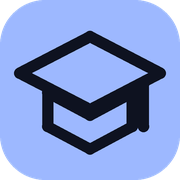
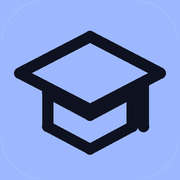
Add files via upload

diff --git a/script.js b/script.js
@@ -259,13 +259,16 @@
   function toast(message, type = 'ok', action = null) {
     const el = $('#toast'), isErr = type === 'error';
     el.setAttribute('role', isErr ? 'alert' : 'status'); el.setAttribute('aria-live', isErr ? 'assertive' : 'polite'); // los errores se anuncian de inmediato
-    el.textContent = message;
     undoRun = action ? action.run : null;
-    if (action) {
-      const b = document.createElement('button'); b.type = 'button'; b.className = 'toast-action'; b.textContent = action.label; b.setAttribute('aria-keyshortcuts', 'z'); b.title = 'Atajo: Z';
-      b.onclick = action.run; el.append(' ', b);
-    }
-    el.className = `toast show ${type}`;
+    el.className = `toast show ${type}`; // primero se hace visible y luego se escribe el texto: los lectores de pantalla solo anuncian cambios en regiones visibles
+    clearTimeout(toast.fillId);
+    toast.fillId = setTimeout(() => {
+      el.textContent = message;
+      if (action) {
+        const b = document.createElement('button'); b.type = 'button'; b.className = 'toast-action'; b.textContent = action.label; b.setAttribute('aria-keyshortcuts', 'z'); b.title = 'Atajo: Z';
+        b.onclick = action.run; el.append(' ', b);
+      }
+    }, 40);
     clearTimeout(toast.id);
     toast.id = setTimeout(() => { el.classList.remove('show'); undoRun = null; }, action ? 8000 : 4200);
   }
@@ -1793,7 +1796,7 @@ ${text}`;
       </details>
       <details class="more-inline settings-group"><summary>Tipografía y lectura</summary>
         <p class="hint">Solo fuentes del sistema: no se descarga nada.</p>
-        ${sel('font', 'Fuente del texto', [['sans', 'Sistema (sans)'], ['humanist', 'Humanista'], ['serif', 'Serif de lectura'], ['rounded', 'Redondeada'], ['mono', 'Monoespaciada'], ['dyslexic', 'Lectura fácil (OpenDyslexic)']])}
+        ${sel('font', 'Fuente del texto', [['sans', 'Sistema (sans)'], ['humanist', 'Humanista'], ['serif', 'Serif de lectura'], ['rounded', 'Redondeada'], ['mono', 'Monoespaciada'], ['dyslexic', 'Lectura fácil (OpenDyslexic si está instalada; si no, Verdana)']])}
         ${sel('headFont', 'Fuente de los títulos', [['serif', 'Serif (actual)'], ['same', 'La misma del texto']])}
         <label>Tamaño de texto: <output id="fs-out"></output><input name="fontSize" type="range" min="13" max="24" step="1"></label>
         <div class="form-row">${sel('lineHeight', 'Interlineado', [['compact', 'Compacto'], ['normal', 'Normal'], ['roomy', 'Amplio']])}${sel('letterSpacing', 'Espaciado de letras', [['normal', 'Normal'], ['wide', 'Amplio'], ['wider', 'Muy amplio']])}</div>
@@ -1863,7 +1866,7 @@ ${text}`;
     $('#reset-data').onclick = async () => {
       if (!(await confirmDialog({ title: 'Borrar todo', message: 'Se borrarán tarjetas, sesiones y fechas.\nAntes se descargará una copia y se guardará otra en el navegador.', ok: 'Borrar todo', danger: true }))) return;
       exportData(true); snapshot('reset');
-      try { localStorage.removeItem(KEY); LEGACY_KEYS.forEach((k) => localStorage.removeItem(k)); ['learny.corrupt', TIMER_KEY, DONE_KEY].forEach((k) => localStorage.removeItem(k)); } catch { /* ignorar */ }
+      try { localStorage.removeItem(KEY); LEGACY_KEYS.forEach((k) => localStorage.removeItem(k)); ['learny.corrupt', 'learny.drafts', TIMER_KEY, DONE_KEY].forEach((k) => localStorage.removeItem(k)); } catch { /* ignorar */ }
       exam = null; hydrate({}); closeModal(); applyPreferences(); resetTimer('focus'); renderAll(); toast('Datos borrados. Descargaste una copia y puedes restaurar la automática desde Ajustes ⚙.');
     };
   }
@@ -2040,6 +2043,11 @@ ${text}`;
 
   const syncOnline = () => { const el = $('#offline-note'); if (el) el.hidden = navigator.onLine; };
   window.addEventListener('online', syncOnline); window.addEventListener('offline', syncOnline); syncOnline();
+  /* Si la app sigue abierta al pasar la medianoche, «hoy» se recalcula (cola, tarjetas vencidas, plan). */
+  let lastDay = today();
+  const checkNewDay = () => { if (today() !== lastDay) { lastDay = today(); renderAll(); } };
+  setInterval(checkNewDay, 60000);
+  document.addEventListener('visibilitychange', () => { if (!document.hidden) checkNewDay(); });
 
   window.Learny = { reveal, pullFromStorage, validDeadlineDate, MAX_PLAN_DAYS, isExam: () => !!exam, endExam: () => { if (exam && exam.i) state.exams.push({ date: today(), score: exam.score, total: exam.i }); exam = null; save(); renderAll(); document.dispatchEvent(new Event('learny:examend')); }, state, save, toast, modal, closeModal, today, addDays, uid, clean, esc, fmt, plural, daysUntil, dueCards, startExam, cardForm, normalizeCard, suggestCards: suggestCardsFromText, reviewCards, askGemini, gemini, rebuildTasks, addDeadline, renderAll, hasAi, cancelAi, showPage, subjectStats, overdueCards, weakSubject, startSubjectQuiz, calcStreak, announce, debounce, currentPage: () => currentPage, timerStarted: () => timer.started, timerRunning: () => timer.running };
   const savedTimer = (() => { try { return localStorage.getItem(TIMER_KEY); } catch { return null; } })();

diff --git a/sw.js b/sw.js
@@ -1,11 +1,12 @@
-const CACHE = 'learny-v17';
+const CACHE = 'learny-v18';
 // Imprescindibles: si falta uno, la instalación falla. Los iconos son opcionales y no bloquean el modo sin conexión.
 const CORE = ['./', './index.html', './style.css', './script.js', './extras.js', './manifest.json'];
 const OPTIONAL = ['./icon.svg', './icon-192.png', './icon-512.png', './icon-maskable-512.png', './apple-touch-icon.png'];
 const NETWORK_TIMEOUT = 4000;
+const ASSET_TIMEOUT = 10000;
 
 self.addEventListener('install', (event) => {
-  event.waitUntil(caches.open(CACHE).then(async (cache) => { await cache.addAll(CORE); await Promise.allSettled(OPTIONAL.map((u) => cache.add(u))); }).then(() => self.skipWaiting()));
+  event.waitUntil(caches.open(CACHE).then(async (cache) => { await cache.addAll(CORE.map((u) => new Request(u, { cache: 'reload' }))); await Promise.allSettled(OPTIONAL.map((u) => cache.add(new Request(u, { cache: 'reload' })))); }).then(() => self.skipWaiting()));
 });
 
 self.addEventListener('activate', (event) => {
@@ -22,9 +23,11 @@ self.addEventListener('fetch', (event) => {
   const url = new URL(request.url);
   if (url.origin !== self.location.origin) return;
 
+  // Navegación: 4 s. Archivos sueltos: 10 s (la red ya respondió al index; así no se mezcla un index nuevo con un script viejo).
+  // cache: 'no-cache' revalida contra el servidor y se salta la caché HTTP de GitHub Pages (~10 min).
   const fromNetwork = new Promise((resolve, reject) => {
-    const timer = setTimeout(() => reject(new Error('timeout')), NETWORK_TIMEOUT);
-    fetch(request).then((res) => { clearTimeout(timer); resolve(res); }, (err) => { clearTimeout(timer); reject(err); });
+    const timer = setTimeout(() => reject(new Error('timeout')), request.mode === 'navigate' ? NETWORK_TIMEOUT : ASSET_TIMEOUT);
+    fetch(request, { cache: 'no-cache' }).then((res) => { clearTimeout(timer); resolve(res); }, (err) => { clearTimeout(timer); reject(err); });
   }).then((res) => {
     if (res && res.ok && res.type === 'basic') {
       const copy = res.clone();
@@ -41,4 +44,13 @@ self.addEventListener('fetch', (event) => {
       return Response.error();
     })
   );
+});
+
+// Al pulsar un aviso: enfoca Learny si ya está abierta; si no, la abre.
+self.addEventListener('notificationclick', (event) => {
+  event.notification.close();
+  event.waitUntil(self.clients.matchAll({ type: 'window', includeUncontrolled: true }).then((list) => {
+    const mine = list.find((c) => c.url.startsWith(self.registration.scope));
+    return mine ? mine.focus() : self.clients.openWindow('./index.html');
+  }));
 });

diff --git a/extras.js b/extras.js
@@ -207,12 +207,22 @@
 
 
   /* ---- Borradores: no pierdas lo que escribes si recargas ---- */
+  /* Los borradores viven en su propia clave: guardarlos en cada pulsación ya no reescribe todos tus datos,
+     no despierta a las otras pestañas y no viajan en las copias exportadas. */
+  const DRAFT_KEY = 'learny.drafts';
+  let drafts = {};
+  try { const p = JSON.parse(localStorage.getItem(DRAFT_KEY) || '{}'); if (p && typeof p === 'object' && !Array.isArray(p)) drafts = p; } catch { /* sin borradores */ }
+  if (state.drafts && Object.keys(state.drafts).length) { // migra los borradores antiguos que estaban dentro de los datos
+    drafts = { ...state.drafts, ...drafts }; state.drafts = {};
+    try { localStorage.setItem(DRAFT_KEY, JSON.stringify(drafts)); } catch { /* ignorar */ }
+    save();
+  }
   ['#quick-note', '#feynman-text', '#feynman-topic', '#source-text', '#intention-input', '#ai-question'].forEach((sel) => {
     const el = $(sel); if (!el) return;
-    if (state.drafts[sel] && !el.value) { el.value = state.drafts[sel]; L.reveal(el); } // un borrador guardado no queda escondido en un bloque plegado
+    if (drafts[sel] && !el.value) { el.value = drafts[sel]; L.reveal(el); } // un borrador guardado no queda escondido en un bloque plegado
     el.addEventListener('input', L.debounce(() => {
-      if (el.value) state.drafts[sel] = el.value.slice(0, 8000); else delete state.drafts[sel];
-      save();
+      if (el.value) drafts[sel] = el.value.slice(0, 8000); else delete drafts[sel];
+      try { localStorage.setItem(DRAFT_KEY, JSON.stringify(drafts)); } catch { /* sin espacio: el borrador queda solo en memoria */ }
     }, 700));
   });
 

diff --git a/README.md b/README.md
@@ -18,7 +18,7 @@ Abre `index.html` con doble clic. (El modo sin conexión/PWA solo se activa serv
 1. Crea un repositorio público en GitHub y sube **todos los archivos** (incluidos los iconos y `icon.svg`).
 2. Settings → Pages → "Deploy from a branch" → rama `main`, carpeta `/ (root)` → Save.
 3. En 1 o 2 minutos estará en `https://TU-USUARIO.github.io/NOMBRE-DEL-REPO/`.
-4. Al publicar una versión nueva, sube también `sw.js` (cambia `CACHE` si modificas archivos; ahora es `learny-v17`).
+4. Al publicar una versión nueva, sube también `sw.js` (cambia `CACHE` si modificas archivos; ahora es `learny-v18`).
 
 ## IA (opcional)
 Hay dos formas; sin ninguna, Learny funciona con su guía local.
